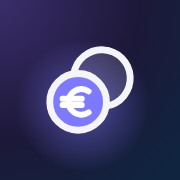
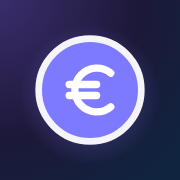
Icona Spese: moneta sola con l'euro al centro
Scelta di Pietro fra tre alternative al posto delle due monete.

Changed region(s): [[0.1944, 0.1944, 0.8056, 0.8056]]

diff --git a/docs/LEGGIMI.md b/docs/LEGGIMI.md
@@ -35,7 +35,7 @@ Home Assistant resta il motore (integrazioni, automazioni, configurazione). La d
 - **iPhone (Safari):** Condividi → Aggiungi alla schermata Home (su iOS 26 Condividi sta nel menu ⋯).
 Il login si fa una volta per dispositivo.
 
-**Icone dell'app (23/10, scelta di Pietro: proposta A «stanza accesa»).** `public/icone/casa.svg`: la casetta del set, di vetro sul fondo del tema scuro, con la porta illuminata d'ambra; è anche l'icona della scheda del browser (`favicon.svg`). Per la sezione Spese un'icona gemella, `public/icone/spese.svg` (le due monete, quella davanti indaco). PNG da 180 (iPhone), 192 e 512 px generati da quegli SVG con Edge senza finestra (`msedge --headless=new --screenshot`); `manifest.webmanifest` (app «Casa», con la scorciatoia «Spese») e `spese.webmanifest` (app «Spese», si apre su `#/spese`). Sulla pagina Spese la dashboard cambia icona, manifest e titolo con quelli delle Spese, e li rimette uscendo: **per avere l'icona «Spese» sul telefono si apre la pagina Spese e da lì si fa Aggiungi alla schermata Home**; da qualunque altra pagina nasce l'icona «Casa». Si possono avere tutte e due. **Limiti:** sull'iPhone ogni icona della schermata Home ha la sua memoria, quindi il login di HA va rifatto una volta per icona; la dashboard è in `http`, non `https`, quindi Chrome ed Edge potrebbero creare un semplice collegamento invece di una vera app (la scorciatoia «Spese» sull'icona Casa funziona solo con una vera app). Non provato su iPhone, Android e con Edge/Chrome sull'indirizzo del CT 203: provato solo qui che i collegamenti cambino e che file e manifest rispondano.
+**Icone dell'app (23/10, scelta di Pietro: proposta A «stanza accesa»).** `public/icone/casa.svg`: la casetta del set, di vetro sul fondo del tema scuro, con la porta illuminata d'ambra; è anche l'icona della scheda del browser (`favicon.svg`). Per la sezione Spese un'icona gemella, `public/icone/spese.svg`: una moneta indaco con l'€ al centro (scelta di Pietro fra tre alternative, 23/10, dopo aver scartato le due monete). PNG da 180 (iPhone), 192 e 512 px generati da quegli SVG con Edge senza finestra (`msedge --headless=new --screenshot`); `manifest.webmanifest` (app «Casa», con la scorciatoia «Spese») e `spese.webmanifest` (app «Spese», si apre su `#/spese`). Sulla pagina Spese la dashboard cambia icona, manifest e titolo con quelli delle Spese, e li rimette uscendo: **per avere l'icona «Spese» sul telefono si apre la pagina Spese e da lì si fa Aggiungi alla schermata Home**; da qualunque altra pagina nasce l'icona «Casa». Si possono avere tutte e due. **Limiti:** sull'iPhone ogni icona della schermata Home ha la sua memoria, quindi il login di HA va rifatto una volta per icona; la dashboard è in `http`, non `https`, quindi Chrome ed Edge potrebbero creare un semplice collegamento invece di una vera app (la scorciatoia «Spese» sull'icona Casa funziona solo con una vera app). Non provato su iPhone, Android e con Edge/Chrome sull'indirizzo del CT 203: provato solo qui che i collegamenti cambino e che file e manifest rispondano.
 
 **`avvia.cmd` serve solo per provare una modifica sul PC** prima di pubblicarla. Ogni volta: doppio clic su `C:\HA-Dashboard\avvia.cmd`. Aggiorna il codice da GitHub, installa i pacchetti che mancano, avvia la dashboard e apre il browser su `http://localhost:5173`. La finestra nera va lasciata aperta; chiudendola la dashboard si ferma. Collegamento sul desktop: tasto destro su `avvia.cmd` → **Mostra altre opzioni** → **Invia a** → **Desktop (crea collegamento)**.
 
